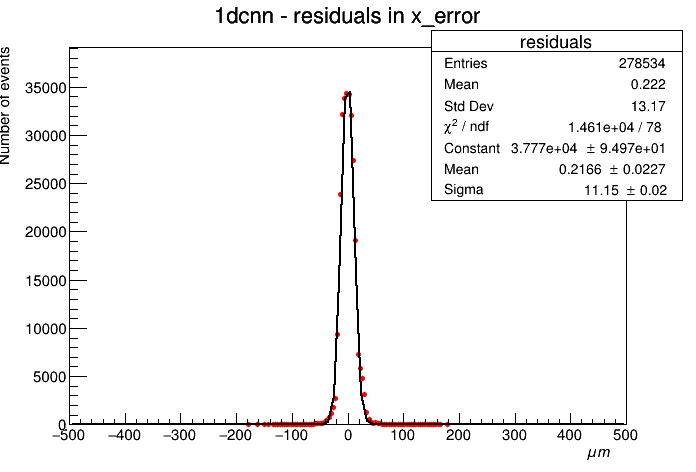
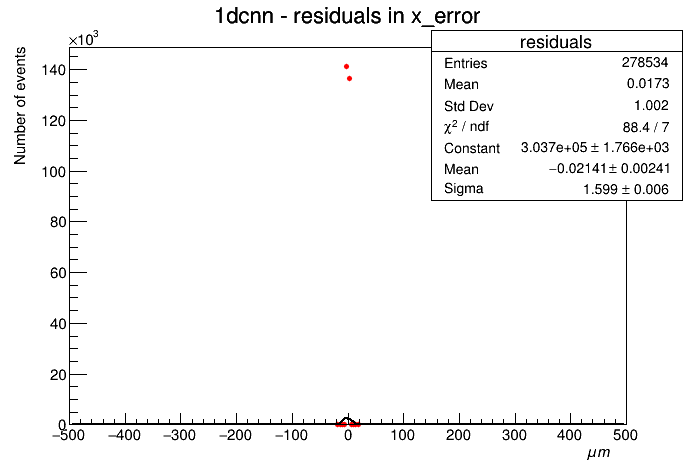
sigma to ln(sigma)

diff --git a/code/find_hit_position_x_1dcnn.py b/code/find_hit_position_x_1dcnn.py
@@ -184,12 +184,12 @@ x = Dense(64)(x)
 x = Activation("relu")(x)
 x = BatchNormalization()(x)
 x = Dropout(0.25)(x)
-x_position_error = Dense(2)(x)
+x_position_logerror = Dense(2)(x)
 #x_position = Activation("linear", name="x")(x)
 
 
 model = Model(inputs=[inputs,angles],
-              outputs=[x_position_error]
+              outputs=[x_position_logerror]
               )
 
 # Display a model summary
@@ -229,7 +229,7 @@ start = time.clock()
 x_pred = model.predict([xpix_flat_test[:,:,np.newaxis],angles_test], batch_size=9000)
 inference_time_x = time.clock() - start
 residuals_x = x_pred[:,:1] - x_test
-pulls_x = residuals_x/x_pred[:,1:]
+pulls_x = residuals_x/np.exp(x_pred[:,1:])
 RMS_x = np.std(residuals_x)
 print("min and max residuals: ",np.amin(residuals_x),np.amax(residuals_x))
 print("min and max pulls: ",np.amin(pulls_x),np.amax(pulls_x))

diff --git a/code/find_hit_position_y_1dcnn.py b/code/find_hit_position_y_1dcnn.py
@@ -230,7 +230,7 @@ inference_time_y = time.clock() - start
 
 #print("inference_time for dnn= ",(inference_time_x+inference_time_y))
 residuals_y = y_pred[:,:1] - y_test
-pulls_y = residuals_y/y_pred[:,1:]
+pulls_y = residuals_y/np.exp(y_pred[:,1:])
 RMS_y = np.std(residuals_y)
 print("min and max residuals: ",np.amin(residuals_y),np.amax(residuals_y))
 print("min and max pulls: ",np.amin(pulls_y),np.amax(pulls_y))
